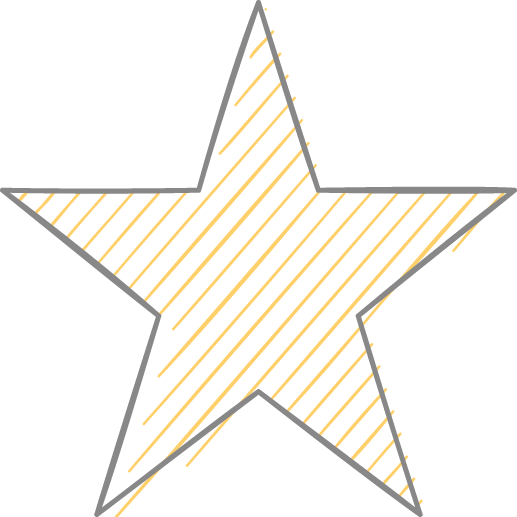
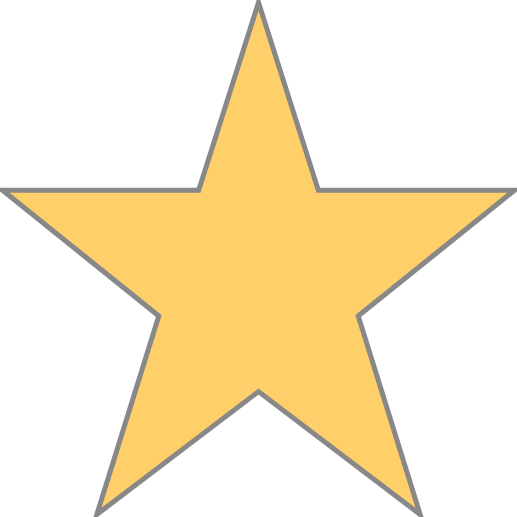
update star images

Changed region(s): [[0.0309, 0.0309, 0.9903, 1.0]]

diff --git a/README.md b/README.md
@@ -1,4 +1,116 @@
-### Hi there 👋
+<h3 align="left">Hi 👋! My name is Gustavo and i'm a Data Scientist, from Brazil :brazil:</h2>
+
+
+* **Creating bugs since 2013** (when I started my Electrical Engineer undergrad) and **working with data since 2018**
+* Goals: learn more about **MLOps**, get a **masters degree**, **work remotely** and **travel the world**
+* I also enjoy **photography**, **gaming** and **basketball**
+
+---
+
+<table>
+<thead>
+  <tr>
+    <th colspan="7">Data</th>
+  </tr>
+</thead>
+<tbody>
+  <tr>
+    <td>Collection</td>
+    <td>Processing</td>
+    <td>Analysis</td>
+    <td>Modeling</td>
+    <td>Visualization</td>
+    <td>Deployment</td>
+    <td>Monitoring</td>
+  </tr>
+  <tr>
+    <td>
+        <img src="https://github.com/vmgustavo/vmgustavo/blob/master/fig/star-filled.png?raw=true" width="10">
+        <img src="https://github.com/vmgustavo/vmgustavo/blob/master/fig/star-empty-yellow.png?raw=true" width="10">
+        <img src="https://github.com/vmgustavo/vmgustavo/blob/master/fig/star-empty-yellow.png?raw=true" width="10">
+        <img src="https://github.com/vmgustavo/vmgustavo/blob/master/fig/star-empty-yellow.png?raw=true" width="10">
+        <img src="https://github.com/vmgustavo/vmgustavo/blob/master/fig/star-empty-yellow.png?raw=true" width="10">
+    </td>
+    <td>
+        <img src="https://github.com/vmgustavo/vmgustavo/blob/master/fig/star-filled.png?raw=true" width="10">
+        <img src="https://github.com/vmgustavo/vmgustavo/blob/master/fig/star-filled.png?raw=true" width="10">
+        <img src="https://github.com/vmgustavo/vmgustavo/blob/master/fig/star-filled.png?raw=true" width="10">
+        <img src="https://github.com/vmgustavo/vmgustavo/blob/master/fig/star-filled.png?raw=true" width="10">
+        <img src="https://github.com/vmgustavo/vmgustavo/blob/master/fig/star-empty-yellow.png?raw=true" width="10">
+    </td>
+    <td>
+        <img src="https://github.com/vmgustavo/vmgustavo/blob/master/fig/star-filled.png?raw=true" width="10">
+        <img src="https://github.com/vmgustavo/vmgustavo/blob/master/fig/star-filled.png?raw=true" width="10">
+        <img src="https://github.com/vmgustavo/vmgustavo/blob/master/fig/star-filled.png?raw=true" width="10">
+        <img src="https://github.com/vmgustavo/vmgustavo/blob/master/fig/star-filled.png?raw=true" width="10">
+        <img src="https://github.com/vmgustavo/vmgustavo/blob/master/fig/star-empty-yellow.png?raw=true" width="10">
+    </td>
+    <td>
+        <img src="https://github.com/vmgustavo/vmgustavo/blob/master/fig/star-filled.png?raw=true" width="10">
+        <img src="https://github.com/vmgustavo/vmgustavo/blob/master/fig/star-filled.png?raw=true" width="10">
+        <img src="https://github.com/vmgustavo/vmgustavo/blob/master/fig/star-filled.png?raw=true" width="10">
+        <img src="https://github.com/vmgustavo/vmgustavo/blob/master/fig/star-filled.png?raw=true" width="10">
+        <img src="https://github.com/vmgustavo/vmgustavo/blob/master/fig/star-empty-yellow.png?raw=true" width="10">
+    </td>
+    <td>
+        <img src="https://github.com/vmgustavo/vmgustavo/blob/master/fig/star-filled.png?raw=true" width="10">
+        <img src="https://github.com/vmgustavo/vmgustavo/blob/master/fig/star-filled.png?raw=true" width="10">
+        <img src="https://github.com/vmgustavo/vmgustavo/blob/master/fig/star-filled.png?raw=true" width="10">
+        <img src="https://github.com/vmgustavo/vmgustavo/blob/master/fig/star-filled.png?raw=true" width="10">
+        <img src="https://github.com/vmgustavo/vmgustavo/blob/master/fig/star-empty-yellow.png?raw=true" width="10">
+    </td>
+    <td>
+        <img src="https://github.com/vmgustavo/vmgustavo/blob/master/fig/star-filled.png?raw=true" width="10">
+        <img src="https://github.com/vmgustavo/vmgustavo/blob/master/fig/star-filled.png?raw=true" width="10">
+        <img src="https://github.com/vmgustavo/vmgustavo/blob/master/fig/star-empty-yellow.png?raw=true" width="10">
+        <img src="https://github.com/vmgustavo/vmgustavo/blob/master/fig/star-empty-yellow.png?raw=true" width="10">
+        <img src="https://github.com/vmgustavo/vmgustavo/blob/master/fig/star-empty-yellow.png?raw=true" width="10">
+    </td>
+    <td>
+        <img src="https://github.com/vmgustavo/vmgustavo/blob/master/fig/star-filled.png?raw=true" width="10">
+        <img src="https://github.com/vmgustavo/vmgustavo/blob/master/fig/star-filled.png?raw=true" width="10">
+        <img src="https://github.com/vmgustavo/vmgustavo/blob/master/fig/star-empty-yellow.png?raw=true" width="10">
+        <img src="https://github.com/vmgustavo/vmgustavo/blob/master/fig/star-empty-yellow.png?raw=true" width="10">
+        <img src="https://github.com/vmgustavo/vmgustavo/blob/master/fig/star-empty-yellow.png?raw=true" width="10">
+    </td>
+  </tr>
+</tbody>
+</table>
+
+###
+
+<div align="left">
+    <img src="https://cdn.jsdelivr.net/gh/devicons/devicon/icons/linux/linux-original.svg" height="25" width="40" alt="linux logo"  />
+    <img src="https://cdn.jsdelivr.net/gh/devicons/devicon/icons/ubuntu/ubuntu-plain.svg" height="25" width="40" alt="ubuntu logo"  />
+    <img src="https://cdn.jsdelivr.net/gh/devicons/devicon/icons/python/python-original.svg" height="25" width="40" alt="python logo"  />
+    <img src="https://cdn.jsdelivr.net/gh/devicons/devicon/icons/jupyter/jupyter-original.svg" height="25" width="40" alt="jupyter logo"  />
+    <img src="https://cdn.jsdelivr.net/gh/devicons/devicon/icons/vscode/vscode-original.svg" height="25" width="40" alt="vscode logo"  />
+    <img src="https://cdn.jsdelivr.net/gh/devicons/devicon/icons/jetbrains/jetbrains-original.svg" height="25" width="40" alt="jetbrains logo"  />
+    <img src="https://cdn.jsdelivr.net/gh/devicons/devicon/icons/git/git-original.svg" height="25" width="40" alt="git logo"  />
+</div>
+
+###
+
+<div align="left">
+    <a href="https://www.linkedin.com/in/vmgustavo/?locale=en_US" target="_blank">
+        <img src="https://img.shields.io/static/v1?message=LinkedIn&logo=linkedin&label=&color=0077B5&logoColor=white&labelColor=&style=flat" height="25" alt="linkedin logo"  />
+    </a>
+    <a href="https://stackoverflow.com/users/6763224/gustavo" target="_blank">
+        <img src="https://img.shields.io/static/v1?message=Stackoverflow&logo=stackoverflow&label=&color=FE7A16&logoColor=white&labelColor=&style=flat" height="25" alt="stackoverflow logo"  />
+    </a>
+    <a href="https://t.me/vmgustavo" target="_blank">
+        <img src="https://img.shields.io/static/v1?message=Telegram&logo=telegram&label=&color=2CA5E0&logoColor=white&labelColor=&style=flat" height="25" alt="telegram logo"  />
+    </a>
+    <a href="https://www.instagram.com/vmgustavo/" target="_blank">
+        <img src="https://img.shields.io/static/v1?message=Instagram&logo=instagram&label=&color=E4405F&logoColor=white&labelColor=&style=flat" height="25" alt="instagram logo"  />
+    </a>
+</div>
+
+###
+
+<div align="left">
+    <img src="https://visitor-badge.laobi.icu/badge?page_id=vmgustavo.vmgustavo&"  />
+</div>
 
 <!--
 <p align="center">
